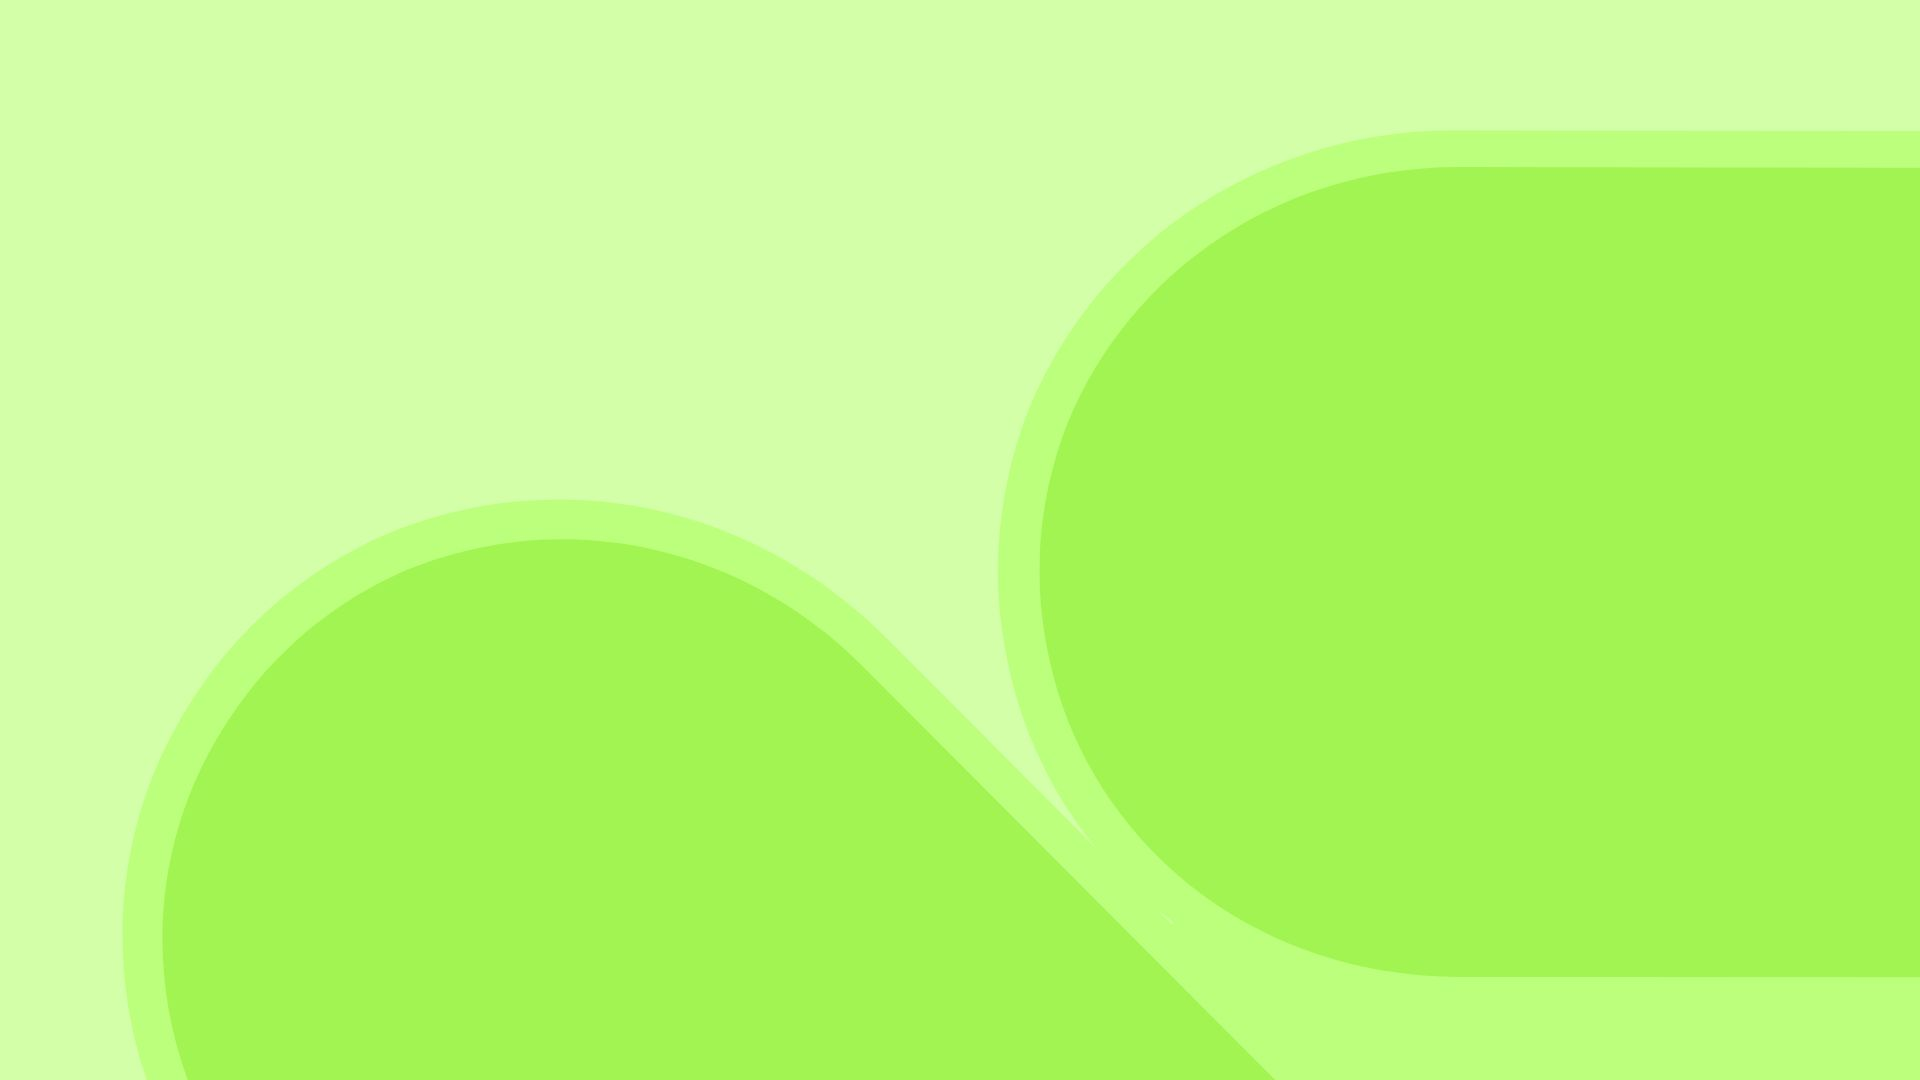
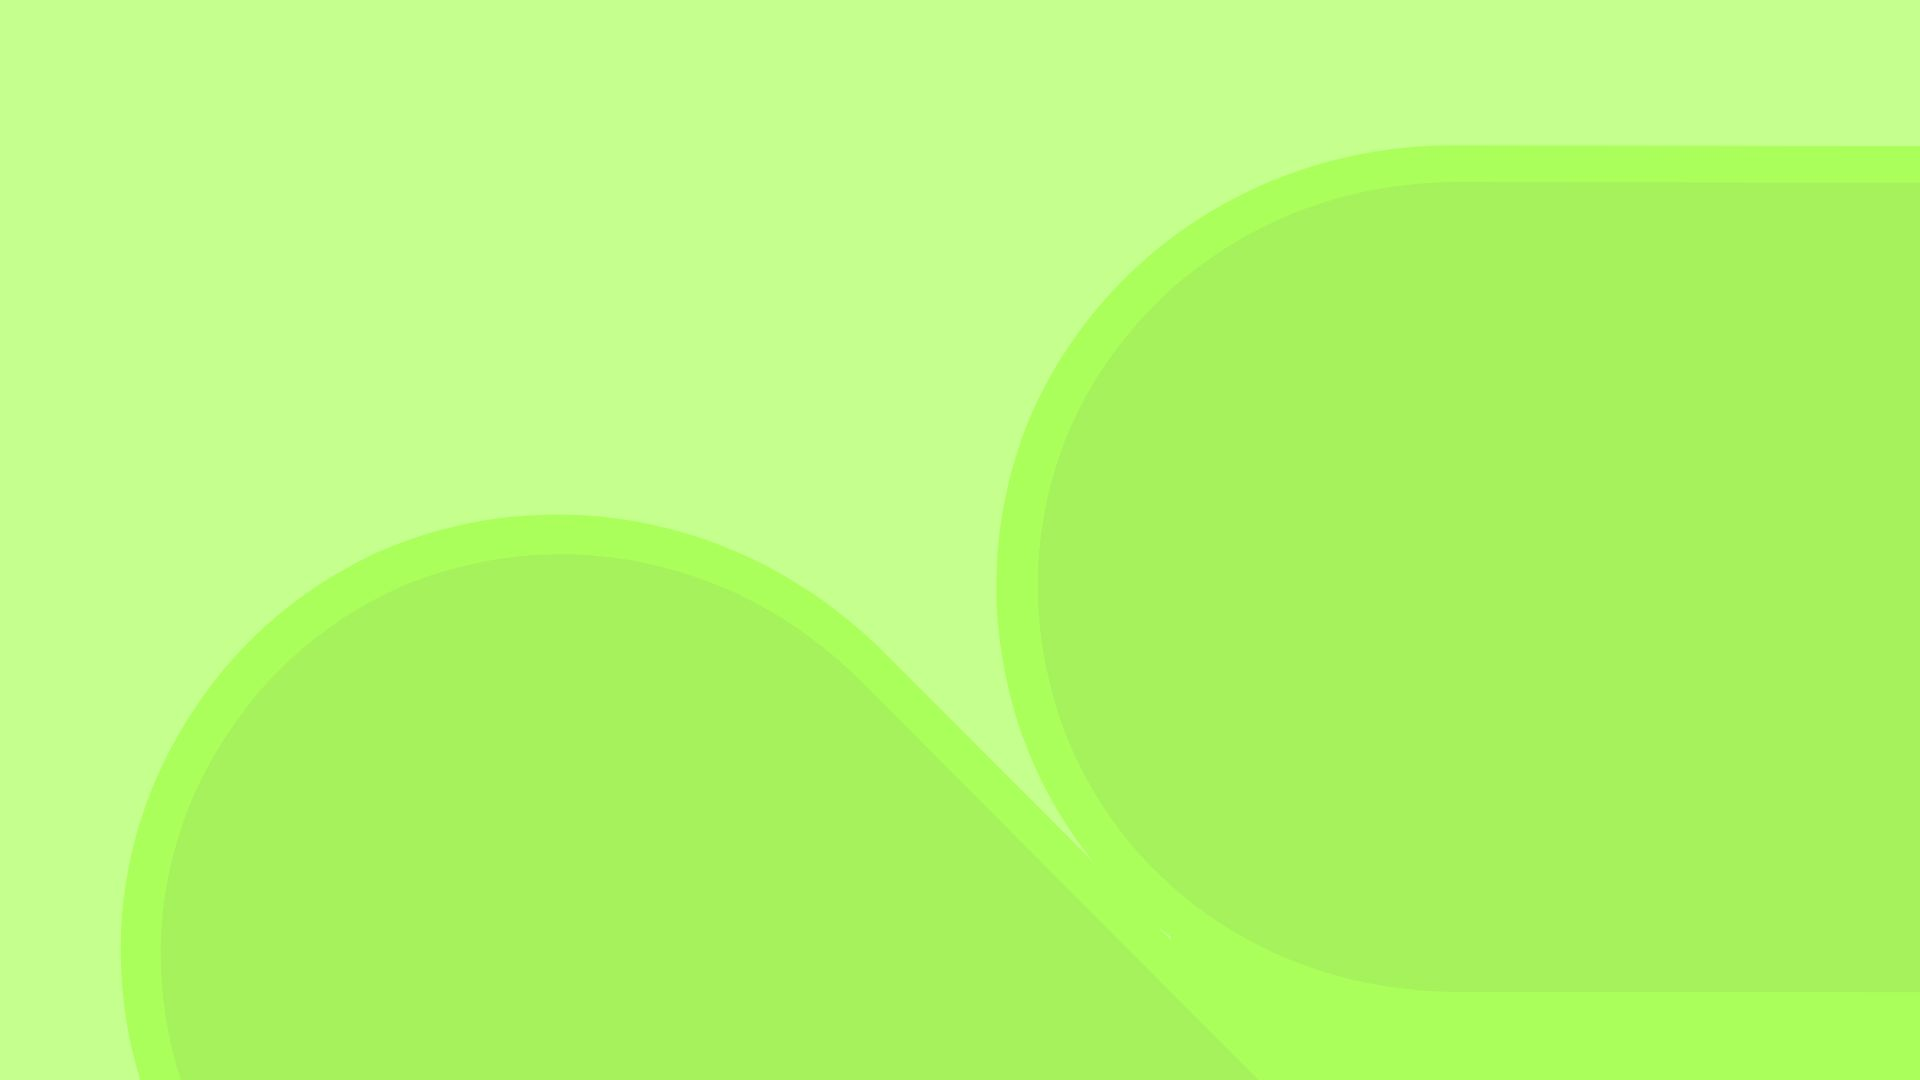
ultime modifiche pls sistema ti imploro per faroe mio sommo aiuto

diff --git a/templates/index.html b/templates/index.html
@@ -5,7 +5,7 @@
         <meta name="viewport" content="width=device-width, initial-scale=1.0">
         <link href="https://cdn.jsdelivr.net/npm/bootstrap@5.3.3/dist/css/bootstrap.min.css" rel="stylesheet" integrity="sha384-QWTKZyjpPEjISv5WaRU9OFeRpok6YctnYmDr5pNlyT2bRjXh0JMhjY6hW+ALEwIH" crossorigin="anonymous">
     </head>
-    <body>
+    <body style="background-color: #C5FF8E">
         <script src="https://cdn.jsdelivr.net/npm/bootstrap@5.3.3/dist/js/bootstrap.bundle.min.js" integrity="sha384-YvpcrYf0tY3lHB60NNkmXc5s9fDVZLESaAA55NDzOxhy9GkcIdslK1eN7N6jIeHz" crossorigin="anonymous"></script>
         <header>
             <div class="div-nav">
@@ -57,34 +57,16 @@
 
             </script>
         </header>
-        <div class="parte_principale">
-          <h2 class="partner">Partner scolastici</h2>
-                <p>
-                  - Vicenza: IIS Canova <br>
-                  - Vicenza: ITIS Rossi <br>
-                  - Schio: Liceo Tron-Zanella <br>
-                  - Montecchio: IIS Silvio Ceccato <br>
-                  - Thiene: ITET Aulo Ceccato <br>
-                </p>
-            <h2 class="partner">Partner e organizzazioni operative:</h2>
-            <p>- referente mobilità: civi&co e veloCittà<br>
-                - referente Mobility Corner: Camposaz<br>
-                - Vicenza: Arci Servizio Civile<br>
-                - Schio: Samarcanda coop. sociale<br>
-                - Montecchio: Piano Infinito<br>
-                - Thiene: Radicà cooperativa sociale<br>
-            </p>
-            <h2 class="partner">Partner istituzionali</h2>
-                <p>
-                - Provincia di Vicenza<br>
-                - USRV-Ufficio VIII - Ambito Territoriale di Vicenza<br>
-                </p>
+
+        <br>
+
             <br>
                 </div>
             <br>
             <h2 class="cose">Cos'è in-mobilità?</h2>
             <p id="cose_p">Questo è un progetto dove stiamo partecipando per la creazione di un'aula scolastica all'aperto,<br> che chiameremo mobility corner, stiamo collaborando con gli architetti del gruppo camposaz <br>per riuscirci.</p>
             <br id="big-bro">
+
             <h2 class="partner" id="argomenti">Argomenti trattati nei vari incontri:</h2>
             <div id="carouselExampleDark" class="carousel carousel-dark slide">
                 <div class="carousel-indicators">
@@ -153,8 +135,35 @@
             handleScroll('.partner');
             handleScroll('.cose');
         </script>
+
+        <br id="big-bro">
+
+<div class="text_partner">
+    <div class="parte_principale">
+      <h2 class="partner">Partner scolastici</h2>
+            <p>
+              - Vicenza: IIS Canova <br>
+              - Vicenza: ITIS Rossi <br>
+              - Schio: Liceo Tron-Zanella <br>
+              - Montecchio: IIS Silvio Ceccato <br>
+              - Thiene: ITET Aulo Ceccato <br>
+            </p>
+        <h2 class="partner">Partner e organizzazioni operative:</h2>
+        <p>- referente mobilità: civi&co e veloCittà<br>
+            - referente Mobility Corner: Camposaz<br>
+            - Vicenza: Arci Servizio Civile<br>
+            - Schio: Samarcanda coop. sociale<br>
+            - Montecchio: Piano Infinito<br>
+            - Thiene: Radicà cooperativa sociale<br>
+        </p>
+        <h2 class="partner">Partner istituzionali</h2>
+            <p>
+            - Provincia di Vicenza<br>
+            - USRV-Ufficio VIII - Ambito Territoriale di Vicenza<br>
+            </p>
+        </div>
         
-        <br>
+        <br id="big-bro">
         <footer>
         <div>
             <br id="big-bro">

diff --git a/static/style.css b/static/style.css
@@ -26,9 +26,13 @@ header::before {
     left: 0;
     width: 100%;
     height: 100%;
-    background-image: linear-gradient(to top, rgba(255, 255, 255, 0.7), transparent), url(images/background.jpg);
+    background-image: linear-gradient(to top, rgba(255, 255, 255, 0.2), transparent), url(images/background.jpg);
+    background-size: cover;
+    background-repeat: no-repeat;
+    background-position: center;
     opacity: 0.9;
     z-index: -1;
+    box-shadow: 0 0 50px rgba(0, 0, 0, 0.1); 
 }
 
 #header_text{
@@ -138,7 +142,7 @@ footer {
     left: 0;
     width: 100%;
     padding: 20px 100px;
-    background-color: #B9F67E;
+    background-color: #a5f25d;
     display: flex;
     justify-content: space-between;
     align-items: center;
@@ -167,7 +171,7 @@ footer {
 .div_lezioni{
     position:absolute;
     left: 50vw;
-    background-color: #81d82e;
+    background-color: #a5f25d;
     width:40vw;
     top:50vw;
     height:35vh;
@@ -186,4 +190,7 @@ footer {
 
 #argomenti{
     margin-left: 1vw;
+}
+.text_partner {
+    text-align: center;
 }
